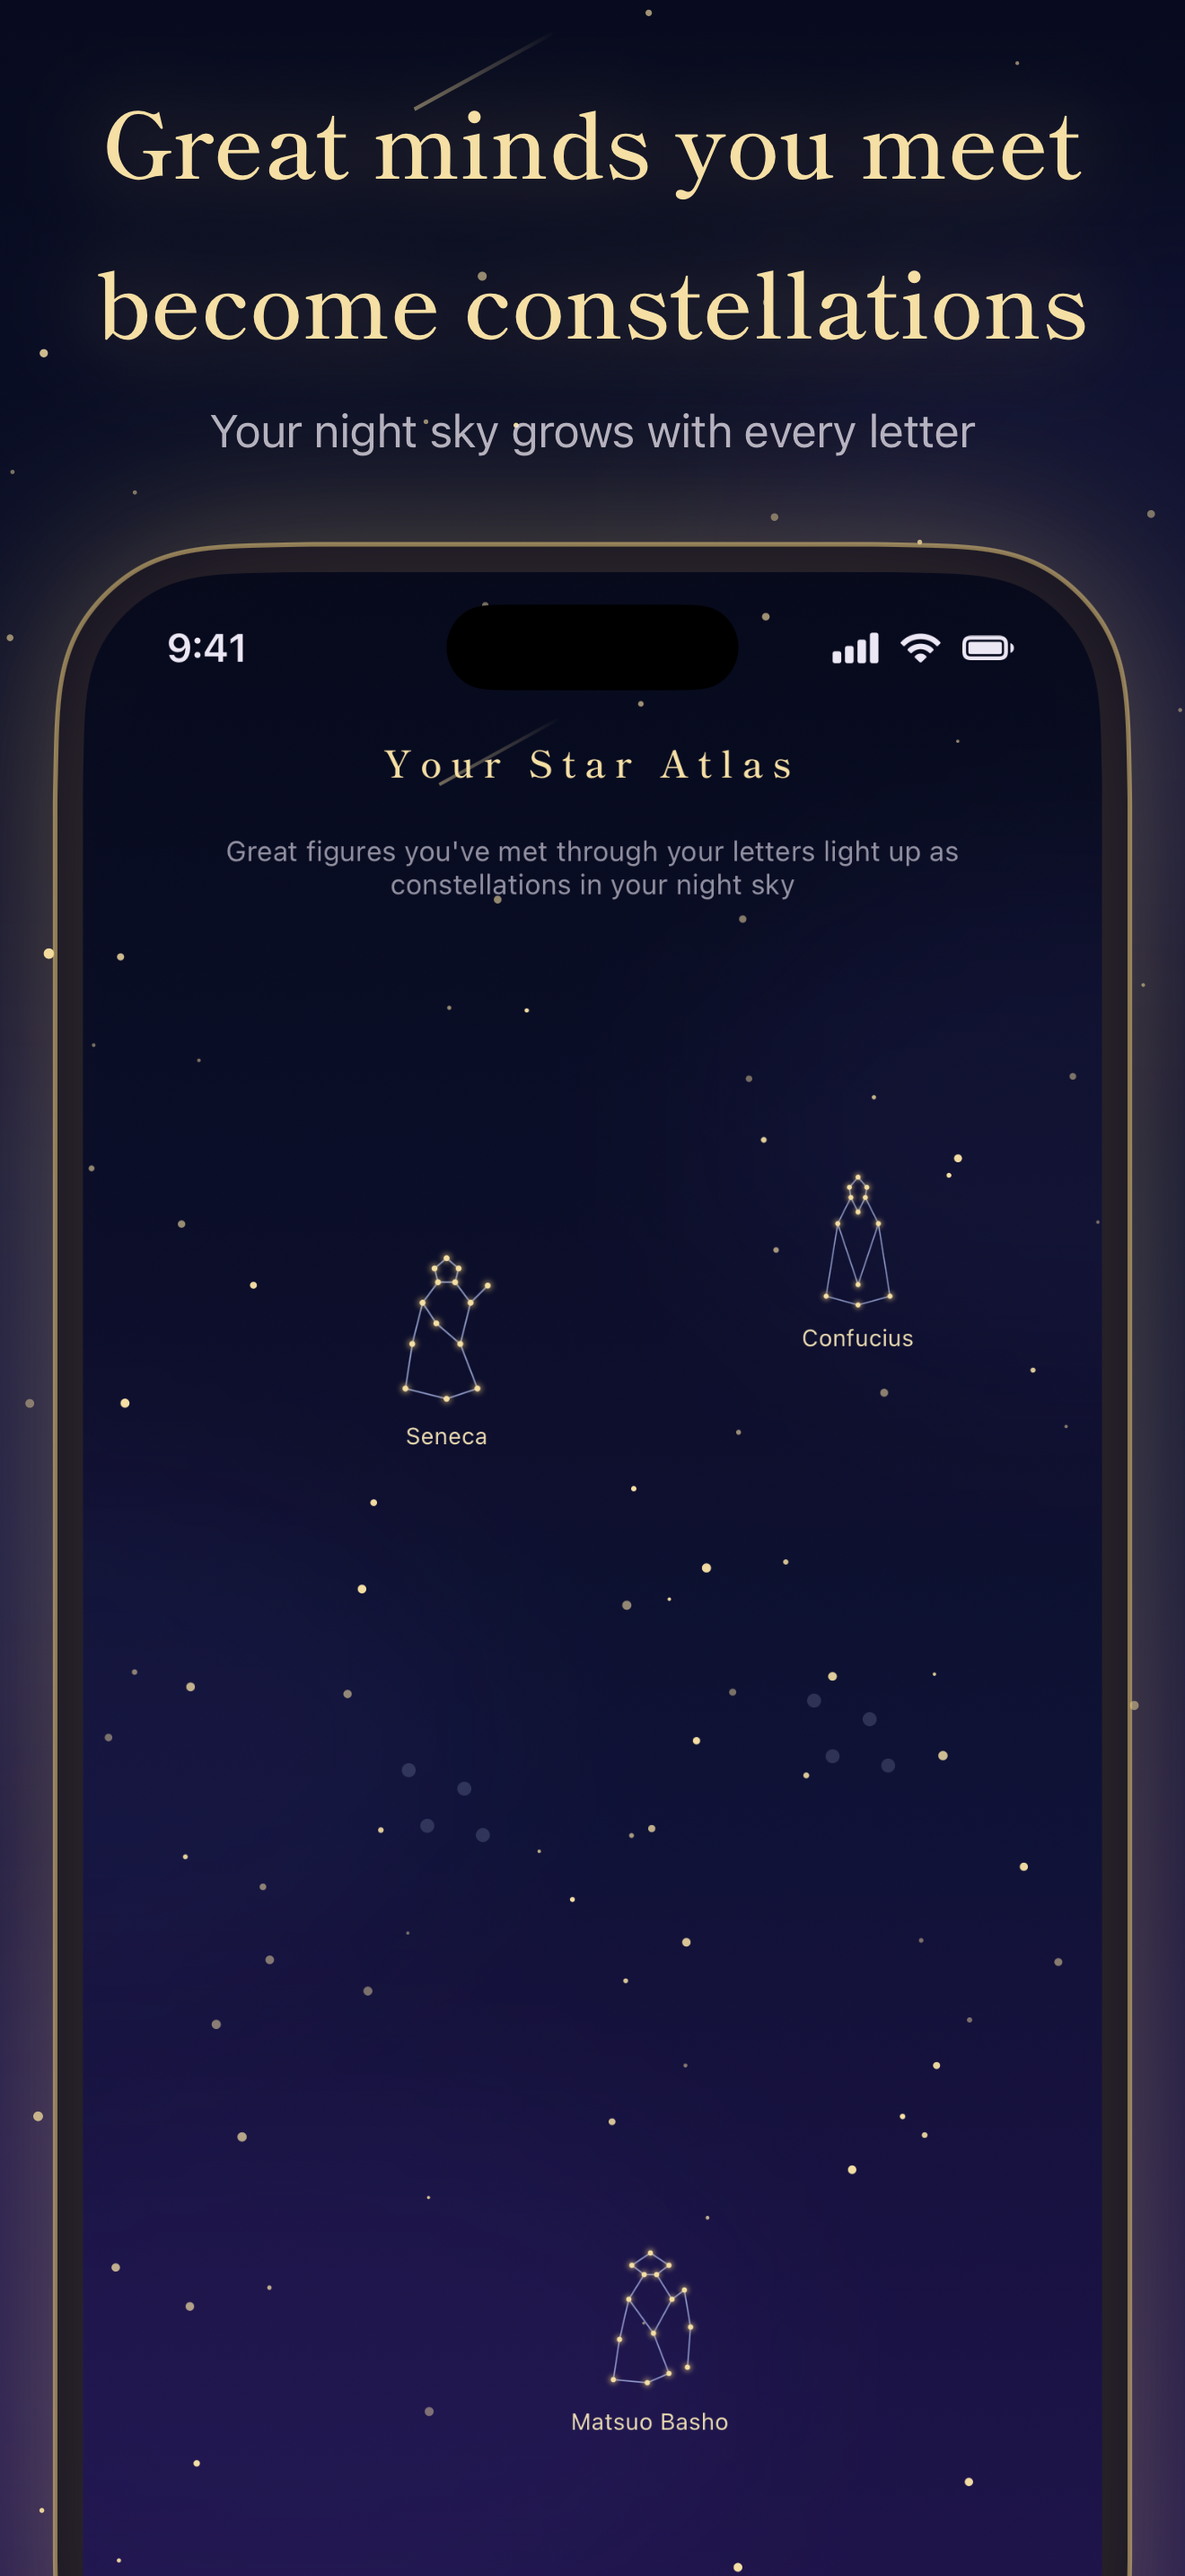
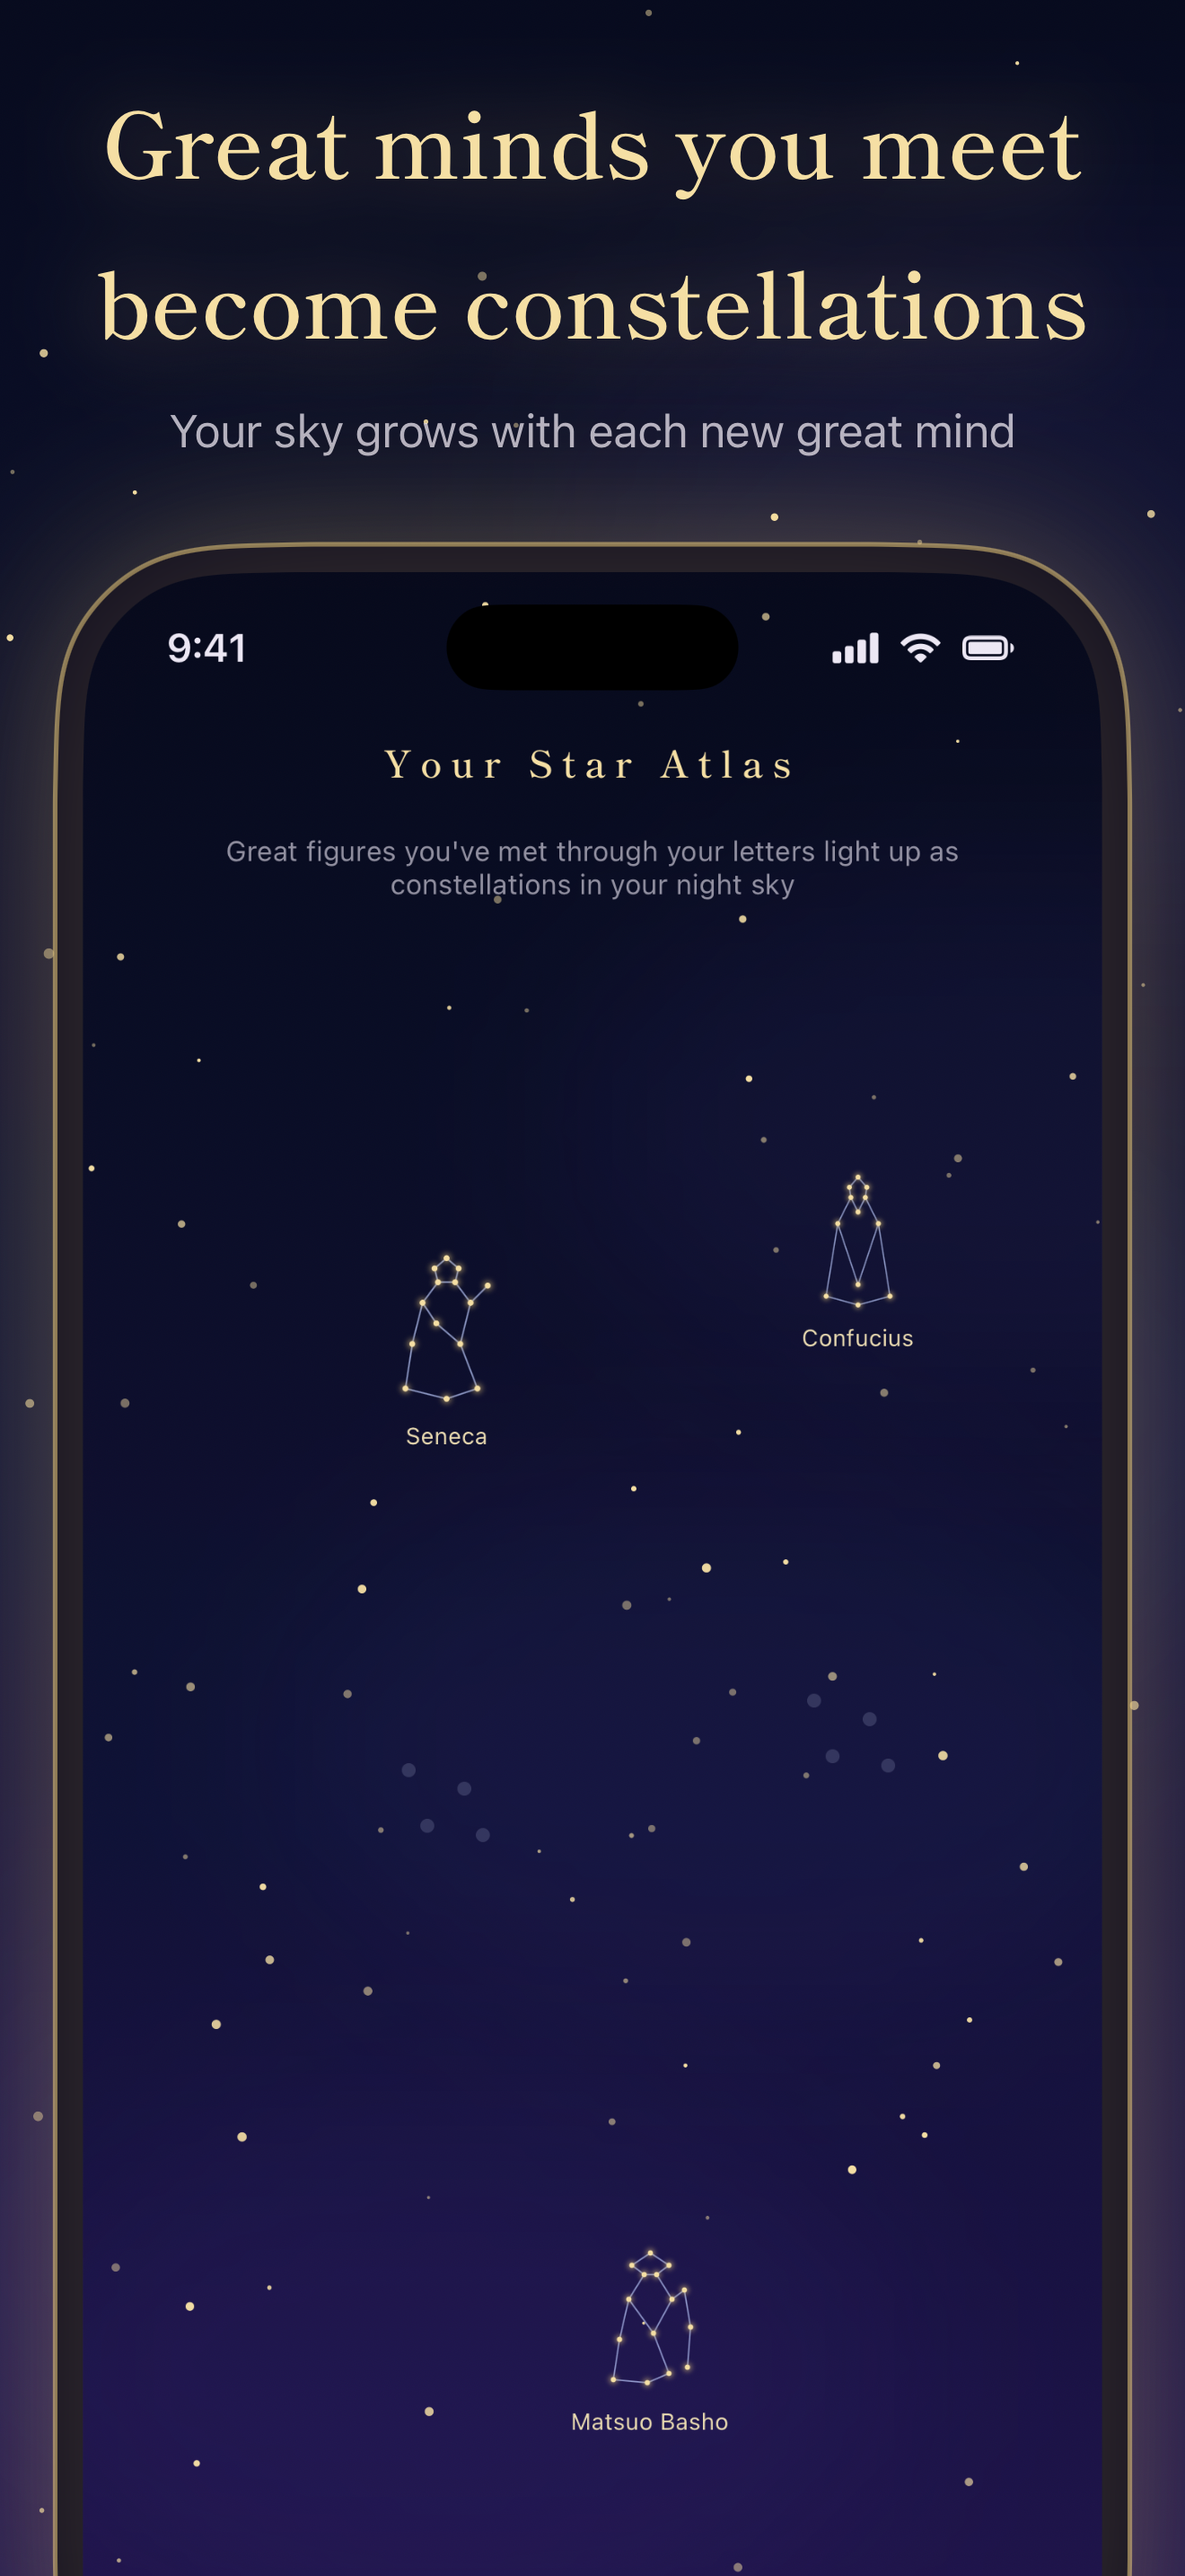
レビュー指摘に対応する (説明文の特典・星図の表現、撮影スクリプトの失敗伝播)
- 説明文 (ja / en-US) から未実装の「星図・記録の無制限保存」を外し、実装済みの特典 (返書無制限) だけを書く
- 星図が増えるのは新しい偉人と出会った時だけのため、説明文と 4 枚目のスクショのサブタイトルをその条件が分かる文言にする
- generate_appstore_screenshots.sh の run_single_test で各工程の失敗を return 1 で伝播し、撮影前に対象言語の古い PNG を消す
  (if 条件で呼ぶ関数内では set -e が効かず、古い PNG で検査を通過していた)

ref: #45 #46

Changed region(s): [[0.1553, 0.1552, 0.8697, 0.1862]]

diff --git a/ios/Igen/AppStoreScreenshots/AppStoreScreenshot4Page.swift b/ios/Igen/AppStoreScreenshots/AppStoreScreenshot4Page.swift
@@ -6,7 +6,7 @@
     var body: some View {
       AppStoreScreenshotFrameLayout(
         title: "Great minds you meet\nbecome constellations",
-        subtitle: "Your night sky grows with every letter"
+        subtitle: "Your sky grows with each new great mind"
       ) {
         AppStoreScreenshotMockScreen {
           VStack(spacing: 12) {
